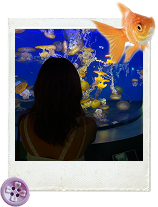
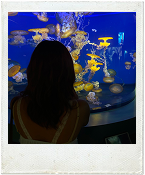
finished

diff --git a/frontend/src/app/page.tsx b/frontend/src/app/page.tsx
@@ -3,13 +3,42 @@
 import ribbon from "../../public/stickers/ribbon.png"
 import waxSeal from "../../public/stickers/wax seal.png"
 import starButton from "../../public/stickers/starButton.png"
+import sfPolaroid from "../../public/stickers/sfPolaroid.png"
+import miffy1 from "../../public/stickers/miffy1.png"
+import stargazerLily from "../../public/stickers/stargazerLily.png"
+import strawberry from "../../public/stickers/strawberry.png"
+import matcha from "../../public/stickers/matcha.png"
+import kiwi from "../../public/stickers/kiwi.png"
+import conch from "../../public/stickers/conch.png"
+import blueHeart from "../../public/stickers/blueHeart.png"
+
+import point5Polaroid from "../../public/stickers/point5 polaroid.png"
+
+import miffyPolaroid from "../../public/stickers/miffy polaroid.png"
+
+import gardenPolaroid from "../../public/stickers/garden polaroid.png"
+import tomato from "../../public/stickers/tomato.png"
+
+import museumPolaroid from "../../public/stickers/museum polaroid.png"
+import animeSticker from "../../public/stickers/animeIcon.png"
+
+import sushiPolaroid from "../../public/stickers/sushi polaroid.png"
+import sonnyAngel from "../../public/stickers/sonnyAngel.png"
+
+import aquariumPolaroid from "../../public/stickers/aquarium polaroid.png"
+import goldfish from "../../public/stickers/goldfish.png"
+import purpleButton from "../../public/stickers/purpleButton.png"
+
+import snoopyAndMiffy from "../../public/stickers/snoopyAndMiffyHugging.png"
+import arrow from "../../public/stickers/arrow.png"
 
 import Image from "next/image";
 
 export default function Home() {
   return (
-    <div className="flex flex-col items-center">
-      <div className="relative w-[15rem] h-[10rem] bg-white border border-gray-200 rounded-lg shadow-lg mt-36">
+    <div className="flex flex-col items-center min-h-screen mb-12">
+      {/* first section, should be able to open up a side panel */}
+      <div className="relative w-[15rem] h-[10rem] bg-white border border-gray-200 rounded-lg shadow-lg mt-24">
         <h1 className="absolute mt-4 text-left text-[12px] font-amiri w-[6rem] mx-auto left-0 right-0">
           "To my Melany,
           Here's a little space I made for 
@@ -20,6 +49,148 @@ export default function Home() {
         <Image src={waxSeal} alt="wax seal" className="absolute -top-4 right-0" />
         <Image src={starButton} alt="star button" className="absolute top-20 left-0" />
       </div>
+
+      {/* first header, should be able to open up a side panel */}
+      <div className="relative w-[8rem] h-[3rem] bg-white border border-gray-200 rounded-lg shadow-lg mt-8">
+        <ol className="absolute mt-4 text-center text-[12px] font-amiri w-[6rem] mx-auto left-0 right-0">
+          1. Start here! 🍵
+        </ol>
+      </div>
+      {/* sf polaroid */}
+      <div className="relative mt-10">
+        {/* polaroid base */}
+        <div className="relative w-[150px] h-[175px]">
+          <Image 
+            src={sfPolaroid} 
+            alt="sf polaroid" 
+            className="absolute top-0 left-0"
+            width={300}
+            height={400}
+          />
+          <p className="absolute bottom-4 left-0 right-0 text-center text-[12px] font-mooMoo">
+            SF with you was so lovely
+          </p>
+          <Image src={stargazerLily} alt="stargazer lilly" className="absolute top-0 left-48" width={50} height={50} />
+          <Image src={strawberry} alt="strawberry" className="absolute top-0 right-44" width={70} height={67} />
+          <Image src={matcha} alt="matcha" className="absolute top-32 left-48" width={100} height={80} />
+        </div>
+        
+        {/* miffy sticker overlay */}
+        <div className="absolute w-[40px] h-[60px] top-[-20px] left-[20px] z-10">
+          <Image 
+            src={miffy1} 
+            alt="miffy" 
+            className="absolute -top-2 left-24"
+          />
+        </div>
+      </div>
+      {/* header 2 */}
+      <div className="relative w-[12rem] h-[3rem] bg-white border border-gray-200 rounded-lg shadow-lg mt-12">
+        <ol className="absolute mt-4 text-center text-[12px] font-amiri w-[10rem] mx-auto left-0 right-0">
+          2. Couple things I love about you 
+        </ol>
+        <Image 
+          src={kiwi} 
+          alt="kiwi" 
+          className="absolute top-6 -left-24" 
+          width={55} 
+          height={60} 
+          priority
+        />
+      </div>
+      {/* Grid container with relative positioning */}
+      <div className="relative grid grid-cols-3 gap-4 mt-8">
+        {[
+          "You're the smartest animal science girl from Santa Ana I know",
+          "I love the way you always make me laugh",
+          "You're very sweet, caring, and creative",
+          "Nobody loves Miffy like you do",
+          "Your outfits are always so cute",
+          "Thank you for always trying to wake me up even if it doesn't work",
+          "I love how we can always talk about anything and everything",
+          "Thank you for laughing at my stupid jokes",
+          "I appreciate you being so understanding and patient with me",
+        ].map((text, index) => (
+          <div 
+            key={index}
+            className="w-[8rem] h-[4rem] bg-white border border-gray-200 rounded-lg shadow-lg mt-6"
+          >
+            <p className="text-[12px] font-amiri text-center">
+              {text}
+            </p>
+          </div>
+        ))}
+        {/* conch sticker */}
+        <div className="absolute -right-4 top-16">
+          <Image src={conch} alt="conch" width={60} height={80} />
+        </div>
+        {/* blue heart sticker */}
+        <div className="absolute left-64 top-48">
+          <Image src={blueHeart} alt="blue heart" width={40} height={40} />
+        </div>
+      </div>
+
+      {/* header 3 */}
+      <div className="relative w-[12rem] h-[3rem] bg-white border border-gray-200 rounded-lg shadow-lg mt-12">
+        <ol className="absolute mt-4 text-center text-[12px] font-amiri w-[10rem] mx-auto left-0 right-0">
+          3. Some of my favorite moments
+        </ol>
+      </div>
+      {/* photo display of polaroids */}
+      <div className="relative grid grid-cols-2 gap-y-28 gap-x-10 mt-8 justify-items-center max-w-[400px] mx-auto">
+        {[
+          point5Polaroid,
+          miffyPolaroid,
+          gardenPolaroid,
+          museumPolaroid,
+          sushiPolaroid,
+          aquariumPolaroid,
+        ].map((polaroid, index) => (
+          <div key={index} className="relative w-[150px] h-[175px]">
+            <Image src={polaroid} alt="polaroid" className="absolute top-0 left-0" />
+            {polaroid === museumPolaroid && (
+              <><Image
+                src={animeSticker}
+                alt="anime sticker"
+                className="absolute -bottom-14 -right-4"
+                width={90}
+                height={90} 
+              /><Image
+                  src={sonnyAngel}
+                  alt="sonny angel"
+                  className="absolute top-52 right-60"
+                  width={60}
+                  height={60} />
+                <Image
+                  src={tomato}
+                  alt="tomato"
+                  className="absolute top-40 right-72"
+                  width={35}
+                  height={35} />
+                <Image
+                  src={goldfish}
+                  alt="goldfish"
+                  className="absolute top-60 -right-2 z-10"
+                  width={90}
+                  height={90} />
+                <Image
+                  src={purpleButton}
+                  alt="purple button"
+                  className="absolute top-[27rem] right-28 z-10"
+                  width={35}
+                  height={35} />
+              </>
+            )}
+          </div>
+        ))}
+      </div>
+      {/* snoopy and miffy image */}
+      <div className="relative w-[150px] h-[175px] mt-8">
+        <Image src={snoopyAndMiffy} alt="snoopy and miffy" className="absolute top-0 right-12" />
+        <Image src={arrow} alt="arrow" className="absolute top-6 -right-8" />
+        <p className="absolute -top-2 -right-20 text-[40px] font-mooMoo">Us</p>
+      </div>
+
     </div>
   );
 }
